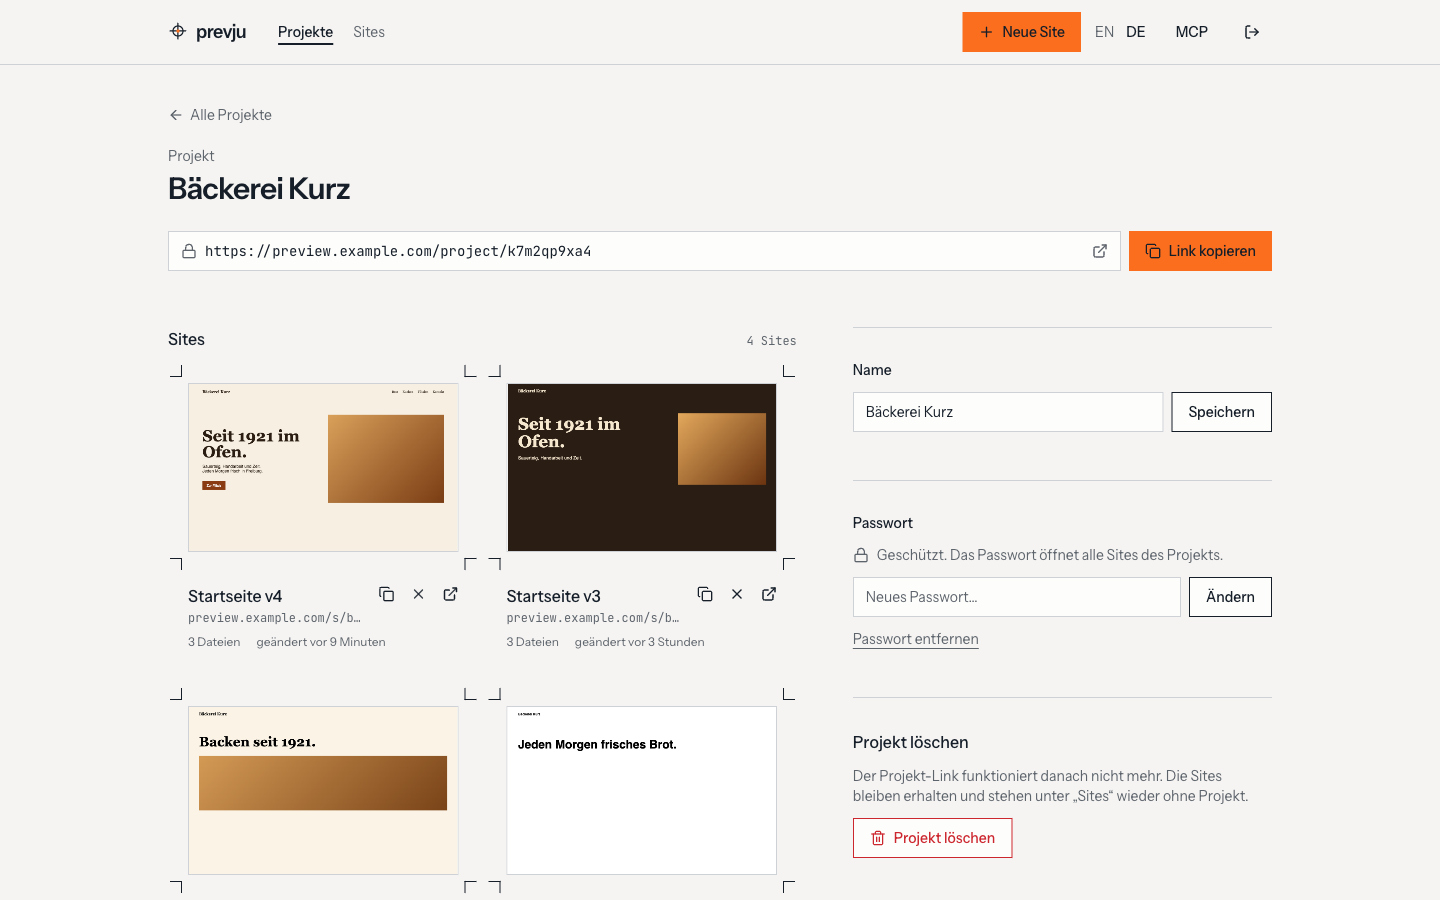
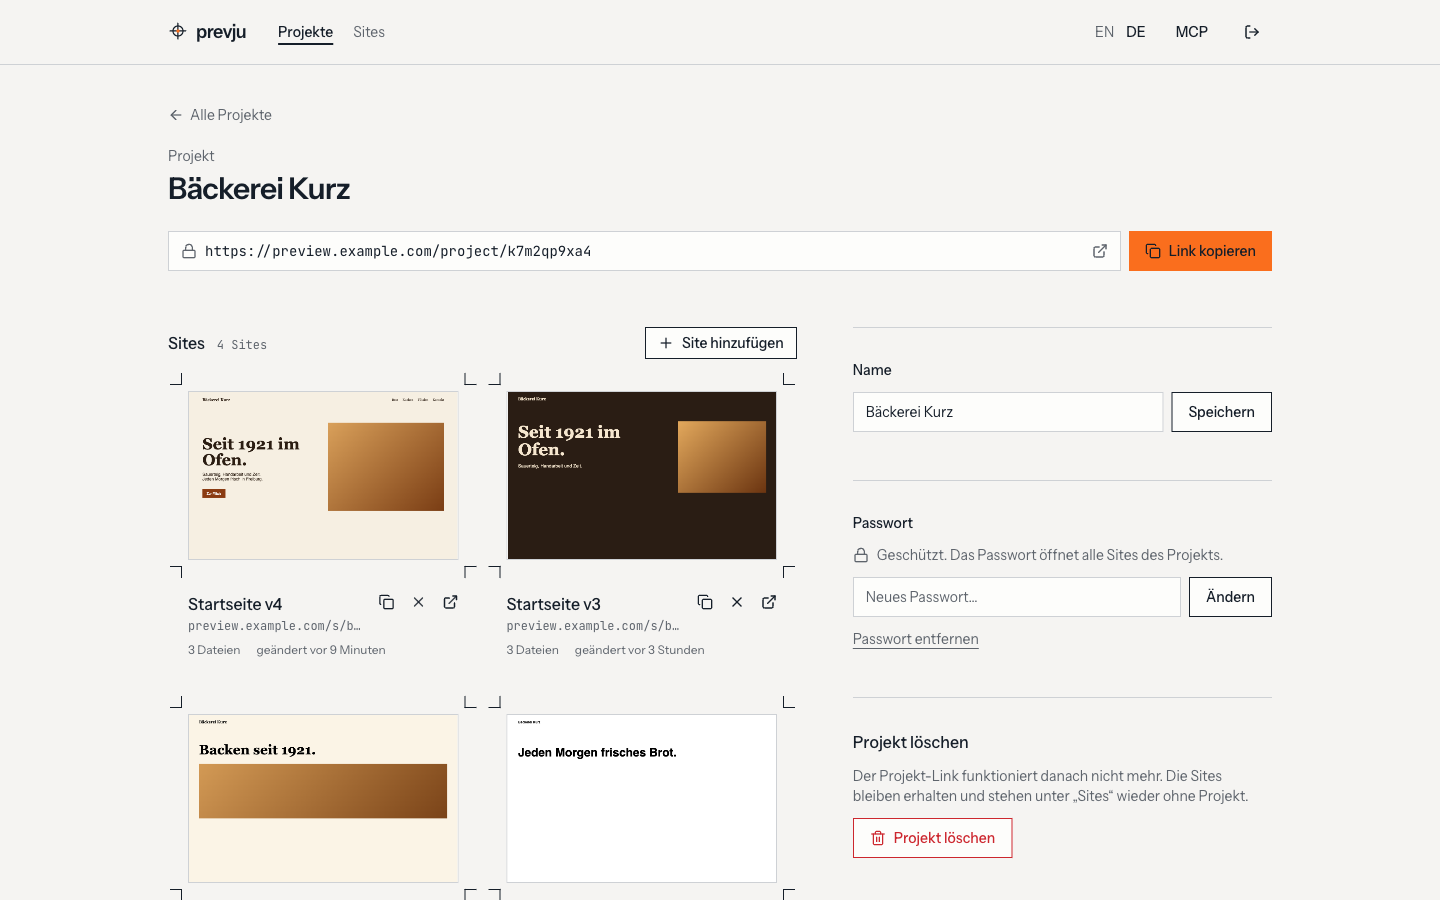
New-site dialog picks a project, Add site button on project page

diff --git a/resources/js/components/new-site-dialog.tsx b/resources/js/components/new-site-dialog.tsx
@@ -5,8 +5,10 @@ import { Dialog, DialogContent, DialogDescription, DialogTitle, DialogTrigger } 
 import { Input } from '@/components/ui/input';
 import { Label } from '@/components/ui/label';
 import { path, t } from '@/lib/i18n';
+import type { ProjectOption } from '@/types';
 
-export function NewSiteDialog({ trigger, projectId }: { trigger?: React.ReactNode; projectId?: number }) {
+/** projectId preselects the project field, e.g. when opened from a project's page. */
+export function NewSiteDialog({ trigger, projects = [], projectId }: { trigger?: React.ReactNode; projects?: ProjectOption[]; projectId?: number }) {
     return (
         <CreateDialog
             trigger={
@@ -20,6 +22,7 @@ export function NewSiteDialog({ trigger, projectId }: { trigger?: React.ReactNod
             title={t('site.new')}
             description={t('site.new_hint')}
             url={path('/sites')}
+            projects={projects}
             projectId={projectId}
             placeholder={t('site.name_placeholder')}
             passwordHint={t('site.new_password_hint')}
@@ -54,13 +57,14 @@ type CreateDialogProps = {
     title: string;
     description: string;
     url: string;
+    projects?: ProjectOption[];
     projectId?: number;
     placeholder: string;
     passwordHint: string;
     submit: string;
 };
 
-function CreateDialog({ trigger, title, description, url, projectId, placeholder, passwordHint, submit }: CreateDialogProps) {
+function CreateDialog({ trigger, title, description, url, projects = [], projectId, placeholder, passwordHint, submit }: CreateDialogProps) {
     const form = useForm({ name: '', password: '', project_id: projectId ?? null });
 
     return (
@@ -107,6 +111,28 @@ function CreateDialog({ trigger, title, description, url, projectId, placeholder
                         />
                         <p className="text-sm text-ink-muted">{passwordHint}</p>
                     </div>
+                    {projects.length > 0 && (
+                        <div className="grid gap-2">
+                            <Label htmlFor="new-project">
+                                {t('site.project')} <span className="font-normal text-ink-muted">{t('common.optional')}</span>
+                            </Label>
+                            <select
+                                id="new-project"
+                                name="project_id"
+                                value={form.data.project_id ?? ''}
+                                onChange={(e) => form.setData('project_id', e.target.value ? Number(e.target.value) : null)}
+                                className="h-10 w-full min-w-0 border border-hairline bg-sheet px-3 text-base text-ink hover:border-ink-muted focus-visible:border-ink focus-visible:outline-none md:text-sm"
+                            >
+                                <option value="">{t('site.no_project')}</option>
+                                {projects.map((p) => (
+                                    <option key={p.id} value={p.id}>
+                                        {p.name}
+                                    </option>
+                                ))}
+                            </select>
+                            {form.errors.project_id && <p className="text-sm text-danger">{form.errors.project_id}</p>}
+                        </div>
+                    )}
                     <Button type="submit" loading={form.processing} className="justify-self-start">
                         {submit}
                     </Button>

diff --git a/resources/js/pages/projects/show.tsx b/resources/js/pages/projects/show.tsx
@@ -1,5 +1,5 @@
 import { Head, Link, router } from '@inertiajs/react';
-import { ArrowLeft, Trash2 } from 'lucide-react';
+import { ArrowLeft, Plus, Trash2 } from 'lucide-react';
 import { AppLayout } from '@/components/app-layout';
 import { LinkBar } from '@/components/link-bar';
 import { NewSiteDialog } from '@/components/new-site-dialog';
@@ -9,12 +9,12 @@ import { Button } from '@/components/ui/button';
 import { deleteWithUndo } from '@/lib/delete-with-undo';
 import { moveSite } from '@/lib/move-site';
 import { siteCount } from '@/lib/format';
-import type { ProjectCard } from '@/types';
+import type { ProjectCard, ProjectOption } from '@/types';
 import { path, t } from '@/lib/i18n';
 
-export default function ProjectShow({ project }: { project: ProjectCard }) {
+export default function ProjectShow({ project, projects }: { project: ProjectCard; projects: ProjectOption[] }) {
     return (
-        <AppLayout actions={<NewSiteDialog projectId={project.id} />}>
+        <AppLayout>
             <Head title={project.name} />
 
             <Link href={path('/projects')} className="inline-flex items-center gap-1.5 text-sm text-ink-muted hover:text-ink">
@@ -27,10 +27,22 @@ export default function ProjectShow({ project }: { project: ProjectCard }) {
 
             <div className="mt-14 grid gap-14 lg:grid-cols-[minmax(0,3fr)_minmax(0,2fr)]">
                 <section aria-labelledby="project-sites" className="grid content-start gap-8">
-                    <h2 id="project-sites" className="flex items-baseline justify-between font-medium">
-                        {t('project.sites')}
-                        <span className="font-mono text-xs font-normal text-ink-muted">{siteCount(project.site_count)}</span>
-                    </h2>
+                    <div className="flex flex-wrap items-center justify-between gap-3">
+                        <h2 id="project-sites" className="flex items-baseline gap-3 font-medium">
+                            {t('project.sites')}
+                            <span className="font-mono text-xs font-normal text-ink-muted">{siteCount(project.site_count)}</span>
+                        </h2>
+                        <NewSiteDialog
+                            projects={projects}
+                            projectId={project.id}
+                            trigger={
+                                <Button variant="outline" size="sm">
+                                    <Plus />
+                                    {t('project.add_site')}
+                                </Button>
+                            }
+                        />
+                    </div>
                     {project.sites.length === 0 ? (
                         <p className="text-sm text-ink-muted">
                             {t('project.no_sites')}

diff --git a/resources/js/pages/sites/index.tsx b/resources/js/pages/sites/index.tsx
@@ -25,7 +25,7 @@ export default function SitesIndex({ sites, projects }: { sites: SiteCard[]; pro
     const count = (f: 'none' | number) => sites.filter((s) => (f === 'none' ? !s.project_id : s.project_id === f)).length;
 
     return (
-        <AppLayout actions={sites.length > 0 && <NewSiteDialog />}>
+        <AppLayout actions={sites.length > 0 && <NewSiteDialog projects={projects} />}>
             <Head title={t('sites.title')} />
 
             <div className="flex flex-wrap items-end justify-between gap-4">
@@ -43,7 +43,7 @@ export default function SitesIndex({ sites, projects }: { sites: SiteCard[]; pro
             </div>
 
             {sites.length === 0 ? (
-                <EmptyState />
+                <EmptyState projects={projects} />
             ) : (
                 <div className="mt-10 grid gap-8 lg:grid-cols-[13rem_minmax(0,1fr)] lg:gap-12">
                     <nav aria-label={t('sites.filter_label')} className="flex gap-1 overflow-x-auto pb-1 lg:sticky lg:top-6 lg:flex-col lg:self-start lg:overflow-visible">
@@ -128,7 +128,7 @@ function FilterItem({ label, count, active, onSelect, onDropSite }: { label: str
     );
 }
 
-function EmptyState() {
+function EmptyState({ projects }: { projects: ProjectOption[] }) {
     return (
         <CropFrame className="mt-14 mx-5 grid max-w-xl gap-4 border bg-sheet p-10">
             <h2 className="text-xl font-semibold tracking-tight">{t('sites.empty_title')}</h2>
@@ -136,6 +136,7 @@ function EmptyState() {
                 {t('sites.empty_text')}
             </p>
             <NewSiteDialog
+                projects={projects}
                 trigger={
                     <Button className="justify-self-start">
                         <Plus />

diff --git a/tests/Feature/AdminTest.php b/tests/Feature/AdminTest.php
@@ -201,7 +201,8 @@ class AdminTest extends TestCase
         $this->get("/en/projects/{$project->id}")->assertInertia(fn (Assert $page) => $page
             ->component('projects/show')
             ->where('project.name', 'Bäckerei')
-            ->where('project.sites.0.name', 'v1'));
+            ->where('project.sites.0.name', 'v1')
+            ->where('projects.0', ['id' => $project->id, 'name' => 'Bäckerei']));
     }
 
     public function test_site_moves_into_and_out_of_a_project(): void

diff --git a/app/Http/Controllers/Admin/ProjectController.php b/app/Http/Controllers/Admin/ProjectController.php
@@ -19,7 +19,11 @@ class ProjectController extends Controller
 
     public function show(Project $project)
     {
-        return Inertia::render('projects/show', ['project' => $project->adminCard()]);
+        return Inertia::render('projects/show', [
+            'project' => $project->adminCard(),
+            // for the project field of the new-site dialog
+            'projects' => Project::orderBy('name')->get(['id', 'name']),
+        ]);
     }
 
     public function store(Request $request)

diff --git a/docs/de/projects.md b/docs/de/projects.md
@@ -4,7 +4,7 @@ Ein Projekt bündelt mehrere Sites hinter einem Link. Statt eines Links pro Entw
 
 ## Projekt anlegen
 
-Der Admin startet bei **Projekte**. Auf **Neues Projekt** klicken und danach Sites direkt im Projekt anlegen, mit **Neue Site** auf der Projektseite. Die Card eines Projekts blättert durch die Vorschauen seiner Sites.
+Der Admin startet bei **Projekte**. Auf **Neues Projekt** klicken und danach Sites direkt im Projekt anlegen, mit **Site hinzufügen** auf der Projektseite. Auch **Neue Site** auf der Sites-Seite lässt dich ein Projekt wählen. Die Card eines Projekts blättert durch die Vorschauen seiner Sites.
 
 ![Die Projekte-Seite im prevju-Admin](/screenshots/de/projects.png)
 

diff --git a/docs/en/projects.md b/docs/en/projects.md
@@ -4,7 +4,7 @@ A project bundles several sites behind one link. Send your client the project li
 
 ## Create a project
 
-The admin opens on **Projects**. Click **New project**, then create sites right inside it with **New site** on the project page. Each project's card cycles through the previews of its sites.
+The admin opens on **Projects**. Click **New project**, then create sites right inside it with **Add site** on the project page. **New site** on the Sites page also lets you pick a project. Each project's card cycles through the previews of its sites.
 
 ![The projects page in the prevju admin](/screenshots/en/projects.png)
 
